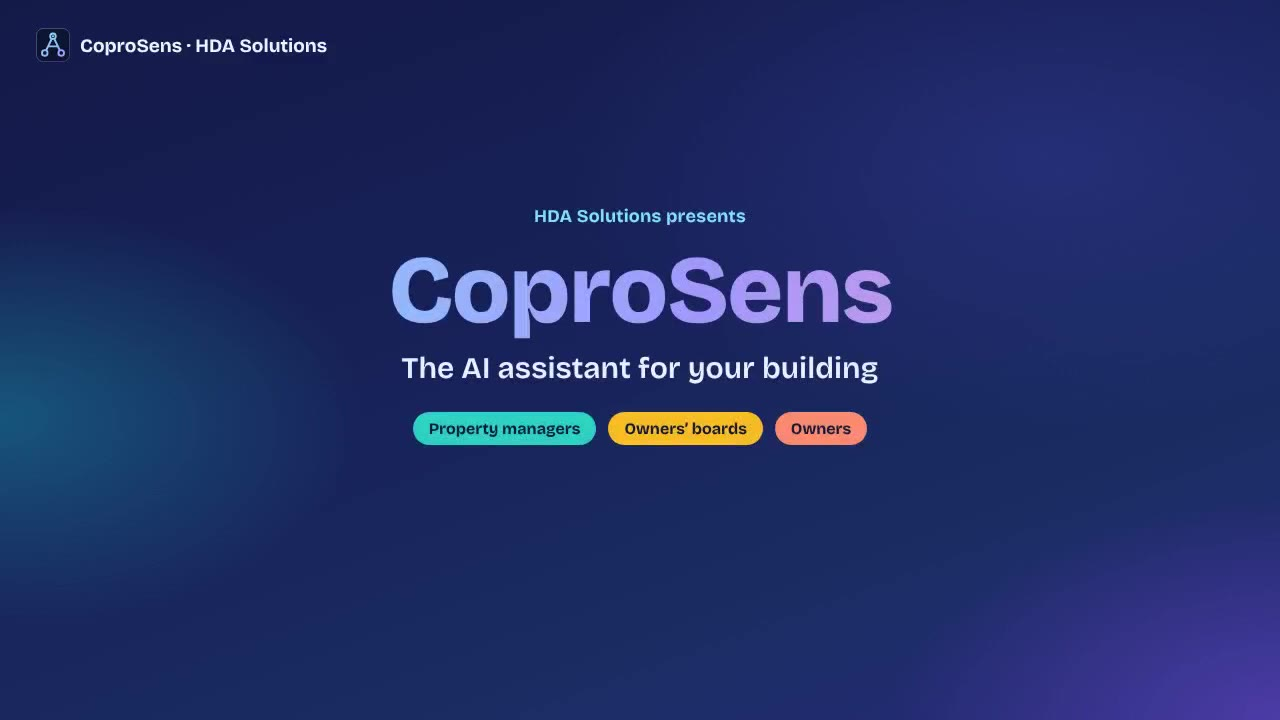
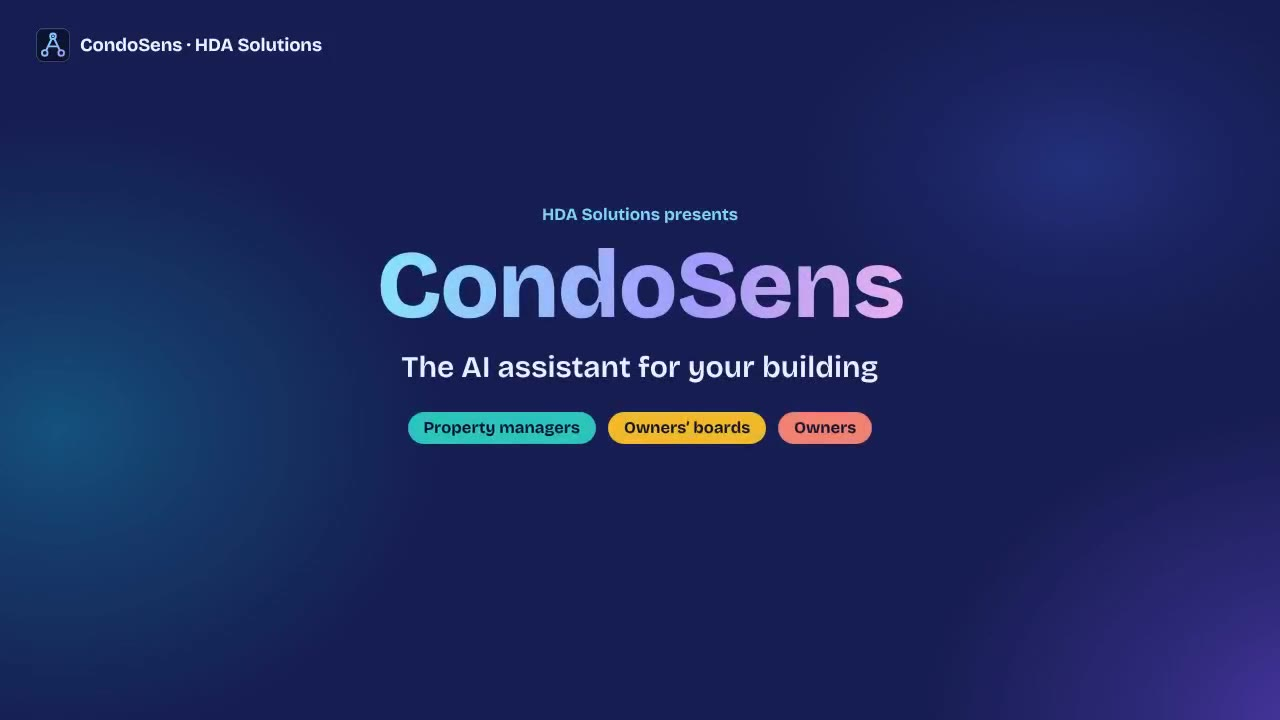
CondoSens video covers EN/ES/PT taken from the new videos; cache-busting ?v=2 on cover and video
Claude-Session: https://claude.ai/code/session_01GzJwK9V3zBxQEsvhtC21Rm

diff --git a/es/index.html b/es/index.html
@@ -12,7 +12,7 @@
 <p class="chat-a"><b>285.249,04 €</b> ya cobrados de 454.411,68 € emitidos; 152.433,04 € aún por vencer.</p>
 <p class="chat-src">Fuente: panel del consejo, 8 de octubre de 2026</p></div>
 <div class="scene-chip">Respuesta con fuente</div>
-</div></section><div class="ribbon"><span>Asistentes y agentes de IA</span><span>Microsoft 365 · Copilot Studio · Power Platform</span><span>Soluciones a medida, dondequiera que esté</span></div><section class="section" id="solutions"><div class="sectionhead"><div><div class="eyebrow">Lo que desarrollamos</div><h2>La IA al servicio<br>del trabajo real.</h2></div><p>Partimos de una necesidad concreta y de sus herramientas actuales para construir una solución adaptada a su organización.</p></div><div class="grid"><article class="card"><span class="icon ic-teal"><svg viewBox="0 0 24 24" aria-hidden="true"><path d="M4 5h16v10H9l-5 4z" fill="none" stroke="currentColor" stroke-width="2" stroke-linejoin="round"/><circle cx="9" cy="10" r="1.2" fill="currentColor"/><circle cx="12" cy="10" r="1.2" fill="currentColor"/><circle cx="15" cy="10" r="1.2" fill="currentColor"/></svg></span><span class="number">01 / ASISTIR</span><h3>Asistentes y copilotos</h3><p>Asistentes y agentes de IA, incluidos los agentes Frontier de Microsoft 365 Copilot, que encuentran información, preparan contenidos y realizan tareas para sus equipos.</p><span class="tags"><span class="tag">Copilot Studio</span><span class="tag">Agentes Frontier</span></span></article><article class="card"><span class="icon ic-amber"><svg viewBox="0 0 24 24" aria-hidden="true"><path d="M6 3h9l4 4v14H6z" fill="none" stroke="currentColor" stroke-width="2" stroke-linejoin="round"/><path d="M9 11h7M9 15h7M9 7h4" stroke="currentColor" stroke-width="2" stroke-linecap="round"/></svg></span><span class="number">02 / CONECTAR</span><h3>Conocimiento accesible</h3><p>Sus documentos conectados al asistente sin perder el control: cada persona solo ve lo que sus permisos de Microsoft 365 autorizan, con la protección y la gobernanza de datos de Microsoft Entra ID y Microsoft Purview.</p><span class="tags"><span class="tag">SharePoint</span><span class="tag">Microsoft Purview</span></span></article><article class="card"><span class="icon ic-coral"><svg viewBox="0 0 24 24" aria-hidden="true"><path d="M13 2 5 14h6l-1 8 8-12h-6z" fill="none" stroke="currentColor" stroke-width="2" stroke-linejoin="round"/></svg></span><span class="number">03 / AUTOMATIZAR</span><h3>Procesos simplificados</h3><p>Flujos de Power Automate que preparan respuestas, organizan solicitudes y encadenan los pasos repetitivos, con las validaciones humanas necesarias.</p><span class="tags"><span class="tag">Power Automate</span><span class="tag">Aplicaciones de negocio</span></span></article></div><div class="platform"><div class="platform-head"><h3>Todo el ecosistema Microsoft, para añadir según sus necesidades</h3><p>Estos servicios pueden completar su solución, según sus licencias de Microsoft 365. Le aconsejamos el plan adecuado y podemos suministrárselo.</p></div><div class="platform-grid"><div class="pf"><h4>Trabajo diario</h4><p>Outlook (correo, agenda), Teams, OneNote, Word, Excel y PowerPoint</p></div><div class="pf"><h4>Intranets y extranets</h4><p>SharePoint: portales internos y espacios compartidos con sus clientes y socios</p></div><div class="pf"><h4>Identidad y seguridad</h4><p>Microsoft Entra ID (cuentas, inicio de sesión multifactor, reglas de acceso), Microsoft Defender (antivirus, protección del correo y de los dispositivos), Microsoft Purview</p></div><div class="pf"><h4>IA y nube</h4><p>Azure AI Foundry, Copilot Studio (agentes disponibles en Teams y en su sitio web), agentes Frontier y Power Automate</p></div></div></div></section></div><section class="dark section" id="applications"><div class="wrap"><div class="eyebrow">Caso concreto</div><h2>Un asistente diseñado<br>para un oficio real.</h2><p>Nuestro primer asistente, desarrollado para la gestión de comunidades de propietarios. El mismo enfoque se adapta a otros oficios.</p><div class="cases single"><article class="case"><span class="eyebrow">Inmobiliaria y comunidades de propietarios</span><h3>CondoSens<br>– el asistente documental de su comunidad de propietarios</h3><p>Nuestro asistente de IA para la gestión de comunidades: documentos, derramas y cuotas, y juntas generales.</p><ul><li>Encontrar información en los documentos de la comunidad, con su fuente.</li><li>Calcular la cuota de cada vivienda: coeficientes, gastos especiales y consumos individuales de agua y calefacción.</li><li>Preparar el orden del día, la convocatoria, el formulario de voto por correo y el acta de la junta, validados por el administrador antes del envío.</li></ul><figure style="margin:28px 0 0"><video controls playsinline preload="none" poster="/media/coprosens-poster-es.jpg" style="display:block;width:100%;aspect-ratio:16/9;background:#0e2220;border-radius:8px" aria-label="Presentación de CondoSens"><source src="/media/coprosens-presentation-es.mp4" type="video/mp4">Su navegador no puede reproducir este vídeo. <a href="/media/coprosens-presentation-es.mp4">Descargar la presentación</a>.</video><figcaption style="font-size:13px;color:#ccd8cc;margin-top:10px">CondoSens en 1 min 35 s</figcaption></figure><div class="actions-grid"><a class="act act-dash" href="https://demo.hdaprodz.com/?lang=es" target="_blank" rel="noopener"><span class="act-ic"><svg viewBox="0 0 24 24" aria-hidden="true"><path d="M4 20V10M10 20V4M16 20v-7M22 20H2" fill="none" stroke="currentColor" stroke-width="2" stroke-linecap="round"/></svg></span><strong>Panel ↗</strong><small>El seguimiento del consejo</small></a></div><p class="actions-note">Comunidad ficticia, datos de demostración · respuestas generadas por IA</p></article></div><div class="audience"><h3 class="audience-title">Para cada actor de la comunidad</h3><div class="audience-grid">
+</div></section><div class="ribbon"><span>Asistentes y agentes de IA</span><span>Microsoft 365 · Copilot Studio · Power Platform</span><span>Soluciones a medida, dondequiera que esté</span></div><section class="section" id="solutions"><div class="sectionhead"><div><div class="eyebrow">Lo que desarrollamos</div><h2>La IA al servicio<br>del trabajo real.</h2></div><p>Partimos de una necesidad concreta y de sus herramientas actuales para construir una solución adaptada a su organización.</p></div><div class="grid"><article class="card"><span class="icon ic-teal"><svg viewBox="0 0 24 24" aria-hidden="true"><path d="M4 5h16v10H9l-5 4z" fill="none" stroke="currentColor" stroke-width="2" stroke-linejoin="round"/><circle cx="9" cy="10" r="1.2" fill="currentColor"/><circle cx="12" cy="10" r="1.2" fill="currentColor"/><circle cx="15" cy="10" r="1.2" fill="currentColor"/></svg></span><span class="number">01 / ASISTIR</span><h3>Asistentes y copilotos</h3><p>Asistentes y agentes de IA, incluidos los agentes Frontier de Microsoft 365 Copilot, que encuentran información, preparan contenidos y realizan tareas para sus equipos.</p><span class="tags"><span class="tag">Copilot Studio</span><span class="tag">Agentes Frontier</span></span></article><article class="card"><span class="icon ic-amber"><svg viewBox="0 0 24 24" aria-hidden="true"><path d="M6 3h9l4 4v14H6z" fill="none" stroke="currentColor" stroke-width="2" stroke-linejoin="round"/><path d="M9 11h7M9 15h7M9 7h4" stroke="currentColor" stroke-width="2" stroke-linecap="round"/></svg></span><span class="number">02 / CONECTAR</span><h3>Conocimiento accesible</h3><p>Sus documentos conectados al asistente sin perder el control: cada persona solo ve lo que sus permisos de Microsoft 365 autorizan, con la protección y la gobernanza de datos de Microsoft Entra ID y Microsoft Purview.</p><span class="tags"><span class="tag">SharePoint</span><span class="tag">Microsoft Purview</span></span></article><article class="card"><span class="icon ic-coral"><svg viewBox="0 0 24 24" aria-hidden="true"><path d="M13 2 5 14h6l-1 8 8-12h-6z" fill="none" stroke="currentColor" stroke-width="2" stroke-linejoin="round"/></svg></span><span class="number">03 / AUTOMATIZAR</span><h3>Procesos simplificados</h3><p>Flujos de Power Automate que preparan respuestas, organizan solicitudes y encadenan los pasos repetitivos, con las validaciones humanas necesarias.</p><span class="tags"><span class="tag">Power Automate</span><span class="tag">Aplicaciones de negocio</span></span></article></div><div class="platform"><div class="platform-head"><h3>Todo el ecosistema Microsoft, para añadir según sus necesidades</h3><p>Estos servicios pueden completar su solución, según sus licencias de Microsoft 365. Le aconsejamos el plan adecuado y podemos suministrárselo.</p></div><div class="platform-grid"><div class="pf"><h4>Trabajo diario</h4><p>Outlook (correo, agenda), Teams, OneNote, Word, Excel y PowerPoint</p></div><div class="pf"><h4>Intranets y extranets</h4><p>SharePoint: portales internos y espacios compartidos con sus clientes y socios</p></div><div class="pf"><h4>Identidad y seguridad</h4><p>Microsoft Entra ID (cuentas, inicio de sesión multifactor, reglas de acceso), Microsoft Defender (antivirus, protección del correo y de los dispositivos), Microsoft Purview</p></div><div class="pf"><h4>IA y nube</h4><p>Azure AI Foundry, Copilot Studio (agentes disponibles en Teams y en su sitio web), agentes Frontier y Power Automate</p></div></div></div></section></div><section class="dark section" id="applications"><div class="wrap"><div class="eyebrow">Caso concreto</div><h2>Un asistente diseñado<br>para un oficio real.</h2><p>Nuestro primer asistente, desarrollado para la gestión de comunidades de propietarios. El mismo enfoque se adapta a otros oficios.</p><div class="cases single"><article class="case"><span class="eyebrow">Inmobiliaria y comunidades de propietarios</span><h3>CondoSens<br>– el asistente documental de su comunidad de propietarios</h3><p>Nuestro asistente de IA para la gestión de comunidades: documentos, derramas y cuotas, y juntas generales.</p><ul><li>Encontrar información en los documentos de la comunidad, con su fuente.</li><li>Calcular la cuota de cada vivienda: coeficientes, gastos especiales y consumos individuales de agua y calefacción.</li><li>Preparar el orden del día, la convocatoria, el formulario de voto por correo y el acta de la junta, validados por el administrador antes del envío.</li></ul><figure style="margin:28px 0 0"><video controls playsinline preload="none" poster="/media/coprosens-poster-es.jpg?v=2" style="display:block;width:100%;aspect-ratio:16/9;background:#0e2220;border-radius:8px" aria-label="Presentación de CondoSens"><source src="/media/coprosens-presentation-es.mp4?v=2" type="video/mp4">Su navegador no puede reproducir este vídeo. <a href="/media/coprosens-presentation-es.mp4?v=2">Descargar la presentación</a>.</video><figcaption style="font-size:13px;color:#ccd8cc;margin-top:10px">CondoSens en 1 min 35 s</figcaption></figure><div class="actions-grid"><a class="act act-dash" href="https://demo.hdaprodz.com/?lang=es" target="_blank" rel="noopener"><span class="act-ic"><svg viewBox="0 0 24 24" aria-hidden="true"><path d="M4 20V10M10 20V4M16 20v-7M22 20H2" fill="none" stroke="currentColor" stroke-width="2" stroke-linecap="round"/></svg></span><strong>Panel ↗</strong><small>El seguimiento del consejo</small></a></div><p class="actions-note">Comunidad ficticia, datos de demostración · respuestas generadas por IA</p></article></div><div class="audience"><h3 class="audience-title">Para cada actor de la comunidad</h3><div class="audience-grid">
 <a class="aud aud-teal aud-link" href="/es/coprosens/#syndics"><h4>Administradores de fincas</h4><p>Seguir los impagos y los recordatorios, los contratos de mantenimiento y los presupuestos; preparar las cuotas y los documentos de junta.</p><span class="aud-cta">Ver cómo les ayuda CondoSens<i aria-hidden="true">→</i></span></a>
 <a class="aud aud-amber aud-link" href="/es/coprosens/#conseil"><h4>Juntas de propietarios</h4><p>Seguir el avance de las obras aprobadas, comprobar la ejecución de los acuerdos de junta, encontrar un acuerdo y comparar presupuestos.</p><span class="aud-cta">Ver cómo les ayuda CondoSens<i aria-hidden="true">→</i></span></a>
 <a class="aud aud-coral aud-link" href="/es/coprosens/#coproprietaires"><h4>Propietarios</h4><p>Comprobar sus cuotas, los vencimientos y el detalle de sus gastos; conocer la fecha de la próxima junta y los acuerdos aprobados.</p><span class="aud-cta">Ver cómo les ayuda CondoSens<i aria-hidden="true">→</i></span></a>

diff --git a/pt/index.html b/pt/index.html
@@ -12,7 +12,7 @@
 <p class="chat-a"><b>R$ 1.783.462,57</b> já recebidos de R$ 2.841.118,15 chamados; R$ 953.057,10 ainda a vencer.</p>
 <p class="chat-src">Fonte: painel do conselho, 8 de outubro de 2026</p></div>
 <div class="scene-chip">Resposta com fonte</div>
-</div></section><div class="ribbon"><span>Assistentes e agentes de IA</span><span>Microsoft 365 · Copilot Studio · Power Platform</span><span>Soluções sob medida, onde quer que esteja</span></div><section class="section" id="solutions"><div class="sectionhead"><div><div class="eyebrow">O que desenvolvemos</div><h2>A IA a serviço<br>do trabalho real.</h2></div><p>Partimos de uma necessidade concreta e das suas ferramentas atuais para construir uma solução adaptada à sua organização.</p></div><div class="grid"><article class="card"><span class="icon ic-teal"><svg viewBox="0 0 24 24" aria-hidden="true"><path d="M4 5h16v10H9l-5 4z" fill="none" stroke="currentColor" stroke-width="2" stroke-linejoin="round"/><circle cx="9" cy="10" r="1.2" fill="currentColor"/><circle cx="12" cy="10" r="1.2" fill="currentColor"/><circle cx="15" cy="10" r="1.2" fill="currentColor"/></svg></span><span class="number">01 / ASSISTIR</span><h3>Assistentes e copilotos</h3><p>Assistentes e agentes de IA, incluindo os agentes Frontier do Microsoft 365 Copilot, que encontram informações, preparam conteúdos e executam tarefas para suas equipes.</p><span class="tags"><span class="tag">Copilot Studio</span><span class="tag">Agentes Frontier</span></span></article><article class="card"><span class="icon ic-amber"><svg viewBox="0 0 24 24" aria-hidden="true"><path d="M6 3h9l4 4v14H6z" fill="none" stroke="currentColor" stroke-width="2" stroke-linejoin="round"/><path d="M9 11h7M9 15h7M9 7h4" stroke="currentColor" stroke-width="2" stroke-linecap="round"/></svg></span><span class="number">02 / CONECTAR</span><h3>Conhecimento acessível</h3><p>Seus documentos ligados ao assistente sem perder o controle: cada um vê apenas o que seus acessos no Microsoft 365 permitem, com a proteção e a governança de dados do Microsoft Entra ID e do Microsoft Purview.</p><span class="tags"><span class="tag">SharePoint</span><span class="tag">Microsoft Purview</span></span></article><article class="card"><span class="icon ic-coral"><svg viewBox="0 0 24 24" aria-hidden="true"><path d="M13 2 5 14h6l-1 8 8-12h-6z" fill="none" stroke="currentColor" stroke-width="2" stroke-linejoin="round"/></svg></span><span class="number">03 / AUTOMATIZAR</span><h3>Processos simplificados</h3><p>Fluxos do Power Automate que preparam respostas, organizam solicitações e encadeiam as etapas repetitivas, com as validações humanas necessárias.</p><span class="tags"><span class="tag">Power Automate</span><span class="tag">Aplicativos de negócio</span></span></article></div><div class="platform"><div class="platform-head"><h3>Todo o ecossistema Microsoft, para adicionar conforme sua necessidade</h3><p>Esses serviços podem complementar sua solução, conforme suas licenças do Microsoft 365. Indicamos o plano adequado e podemos fornecê-lo.</p></div><div class="platform-grid"><div class="pf"><h4>Trabalho do dia a dia</h4><p>Outlook (e-mail, agenda), Teams, OneNote, Word, Excel e PowerPoint</p></div><div class="pf"><h4>Intranets e extranets</h4><p>SharePoint: portais internos e espaços compartilhados com seus clientes e parceiros</p></div><div class="pf"><h4>Identidade e segurança</h4><p>Microsoft Entra ID (contas, login multifator, regras de acesso), Microsoft Defender (antivírus, proteção de e-mails e dispositivos), Microsoft Purview</p></div><div class="pf"><h4>IA e nuvem</h4><p>Azure AI Foundry, Copilot Studio (agentes disponíveis no Teams e no seu site), agentes Frontier e Power Automate</p></div></div></div></section></div><section class="dark section" id="applications"><div class="wrap"><div class="eyebrow">Caso concreto</div><h2>Um assistente criado<br>para uma profissão real.</h2><p>Nosso primeiro assistente, desenvolvido para a gestão de condomínios. A mesma abordagem se adapta a outras profissões.</p><div class="cases single"><article class="case"><span class="eyebrow">Imóveis e condomínios</span><h3>CondoSens<br>– o assistente de documentos do seu condomínio</h3><p>Nosso assistente de IA para a gestão de condomínios: documentos, chamadas de cotas e assembleias gerais.</p><ul><li>Encontrar uma informação nos documentos do condomínio, com a fonte.</li><li>Calcular a chamada de cotas de cada unidade: frações ideais, encargos especiais e consumos individuais de água e aquecimento.</li><li>Preparar a ordem do dia, a convocação, o formulário de voto por correspondência e a ata da assembleia, validados pela administradora antes do envio.</li></ul><figure style="margin:28px 0 0"><video controls playsinline preload="none" poster="/media/coprosens-poster-pt.jpg" style="display:block;width:100%;aspect-ratio:16/9;background:#0e2220;border-radius:8px" aria-label="Apresentação do CondoSens"><source src="/media/coprosens-presentation-pt.mp4" type="video/mp4">Seu navegador não consegue reproduzir este vídeo. <a href="/media/coprosens-presentation-pt.mp4">Baixar a apresentação</a>.</video><figcaption style="font-size:13px;color:#ccd8cc;margin-top:10px">CondoSens em 1 min 37 s</figcaption></figure><div class="actions-grid"><a class="act act-dash" href="https://demo.hdaprodz.com/?lang=pt" target="_blank" rel="noopener"><span class="act-ic"><svg viewBox="0 0 24 24" aria-hidden="true"><path d="M4 20V10M10 20V4M16 20v-7M22 20H2" fill="none" stroke="currentColor" stroke-width="2" stroke-linecap="round"/></svg></span><strong>Painel ↗</strong><small>O acompanhamento do conselho</small></a></div><p class="actions-note">Condomínio fictício, dados de demonstração · respostas geradas por IA</p></article></div><div class="audience"><h3 class="audience-title">Para cada ator do condomínio</h3><div class="audience-grid">
+</div></section><div class="ribbon"><span>Assistentes e agentes de IA</span><span>Microsoft 365 · Copilot Studio · Power Platform</span><span>Soluções sob medida, onde quer que esteja</span></div><section class="section" id="solutions"><div class="sectionhead"><div><div class="eyebrow">O que desenvolvemos</div><h2>A IA a serviço<br>do trabalho real.</h2></div><p>Partimos de uma necessidade concreta e das suas ferramentas atuais para construir uma solução adaptada à sua organização.</p></div><div class="grid"><article class="card"><span class="icon ic-teal"><svg viewBox="0 0 24 24" aria-hidden="true"><path d="M4 5h16v10H9l-5 4z" fill="none" stroke="currentColor" stroke-width="2" stroke-linejoin="round"/><circle cx="9" cy="10" r="1.2" fill="currentColor"/><circle cx="12" cy="10" r="1.2" fill="currentColor"/><circle cx="15" cy="10" r="1.2" fill="currentColor"/></svg></span><span class="number">01 / ASSISTIR</span><h3>Assistentes e copilotos</h3><p>Assistentes e agentes de IA, incluindo os agentes Frontier do Microsoft 365 Copilot, que encontram informações, preparam conteúdos e executam tarefas para suas equipes.</p><span class="tags"><span class="tag">Copilot Studio</span><span class="tag">Agentes Frontier</span></span></article><article class="card"><span class="icon ic-amber"><svg viewBox="0 0 24 24" aria-hidden="true"><path d="M6 3h9l4 4v14H6z" fill="none" stroke="currentColor" stroke-width="2" stroke-linejoin="round"/><path d="M9 11h7M9 15h7M9 7h4" stroke="currentColor" stroke-width="2" stroke-linecap="round"/></svg></span><span class="number">02 / CONECTAR</span><h3>Conhecimento acessível</h3><p>Seus documentos ligados ao assistente sem perder o controle: cada um vê apenas o que seus acessos no Microsoft 365 permitem, com a proteção e a governança de dados do Microsoft Entra ID e do Microsoft Purview.</p><span class="tags"><span class="tag">SharePoint</span><span class="tag">Microsoft Purview</span></span></article><article class="card"><span class="icon ic-coral"><svg viewBox="0 0 24 24" aria-hidden="true"><path d="M13 2 5 14h6l-1 8 8-12h-6z" fill="none" stroke="currentColor" stroke-width="2" stroke-linejoin="round"/></svg></span><span class="number">03 / AUTOMATIZAR</span><h3>Processos simplificados</h3><p>Fluxos do Power Automate que preparam respostas, organizam solicitações e encadeiam as etapas repetitivas, com as validações humanas necessárias.</p><span class="tags"><span class="tag">Power Automate</span><span class="tag">Aplicativos de negócio</span></span></article></div><div class="platform"><div class="platform-head"><h3>Todo o ecossistema Microsoft, para adicionar conforme sua necessidade</h3><p>Esses serviços podem complementar sua solução, conforme suas licenças do Microsoft 365. Indicamos o plano adequado e podemos fornecê-lo.</p></div><div class="platform-grid"><div class="pf"><h4>Trabalho do dia a dia</h4><p>Outlook (e-mail, agenda), Teams, OneNote, Word, Excel e PowerPoint</p></div><div class="pf"><h4>Intranets e extranets</h4><p>SharePoint: portais internos e espaços compartilhados com seus clientes e parceiros</p></div><div class="pf"><h4>Identidade e segurança</h4><p>Microsoft Entra ID (contas, login multifator, regras de acesso), Microsoft Defender (antivírus, proteção de e-mails e dispositivos), Microsoft Purview</p></div><div class="pf"><h4>IA e nuvem</h4><p>Azure AI Foundry, Copilot Studio (agentes disponíveis no Teams e no seu site), agentes Frontier e Power Automate</p></div></div></div></section></div><section class="dark section" id="applications"><div class="wrap"><div class="eyebrow">Caso concreto</div><h2>Um assistente criado<br>para uma profissão real.</h2><p>Nosso primeiro assistente, desenvolvido para a gestão de condomínios. A mesma abordagem se adapta a outras profissões.</p><div class="cases single"><article class="case"><span class="eyebrow">Imóveis e condomínios</span><h3>CondoSens<br>– o assistente de documentos do seu condomínio</h3><p>Nosso assistente de IA para a gestão de condomínios: documentos, chamadas de cotas e assembleias gerais.</p><ul><li>Encontrar uma informação nos documentos do condomínio, com a fonte.</li><li>Calcular a chamada de cotas de cada unidade: frações ideais, encargos especiais e consumos individuais de água e aquecimento.</li><li>Preparar a ordem do dia, a convocação, o formulário de voto por correspondência e a ata da assembleia, validados pela administradora antes do envio.</li></ul><figure style="margin:28px 0 0"><video controls playsinline preload="none" poster="/media/coprosens-poster-pt.jpg?v=2" style="display:block;width:100%;aspect-ratio:16/9;background:#0e2220;border-radius:8px" aria-label="Apresentação do CondoSens"><source src="/media/coprosens-presentation-pt.mp4?v=2" type="video/mp4">Seu navegador não consegue reproduzir este vídeo. <a href="/media/coprosens-presentation-pt.mp4?v=2">Baixar a apresentação</a>.</video><figcaption style="font-size:13px;color:#ccd8cc;margin-top:10px">CondoSens em 1 min 37 s</figcaption></figure><div class="actions-grid"><a class="act act-dash" href="https://demo.hdaprodz.com/?lang=pt" target="_blank" rel="noopener"><span class="act-ic"><svg viewBox="0 0 24 24" aria-hidden="true"><path d="M4 20V10M10 20V4M16 20v-7M22 20H2" fill="none" stroke="currentColor" stroke-width="2" stroke-linecap="round"/></svg></span><strong>Painel ↗</strong><small>O acompanhamento do conselho</small></a></div><p class="actions-note">Condomínio fictício, dados de demonstração · respostas geradas por IA</p></article></div><div class="audience"><h3 class="audience-title">Para cada ator do condomínio</h3><div class="audience-grid">
 <a class="aud aud-teal aud-link" href="/pt/coprosens/#syndics"><h4>Administradoras</h4><p>Acompanhar a inadimplência e as cobranças, os contratos de manutenção e os orçamentos; preparar as chamadas de cotas e os documentos de assembleia.</p><span class="aud-cta">Ver como o CondoSens ajuda<i aria-hidden="true">→</i></span></a>
 <a class="aud aud-amber aud-link" href="/pt/coprosens/#conseil"><h4>Conselhos do condomínio</h4><p>Acompanhar o andamento das obras aprovadas, verificar a execução das decisões de assembleia, encontrar uma resolução e comparar orçamentos.</p><span class="aud-cta">Ver como o CondoSens ajuda<i aria-hidden="true">→</i></span></a>
 <a class="aud aud-coral aud-link" href="/pt/coprosens/#coproprietaires"><h4>Condôminos</h4><p>Conferir suas cotas, os vencimentos e o detalhe das despesas; saber a data da próxima assembleia e as resoluções aprovadas.</p><span class="aud-cta">Ver como o CondoSens ajuda<i aria-hidden="true">→</i></span></a>

diff --git a/en/index.html b/en/index.html
@@ -12,7 +12,7 @@
 <p class="chat-a"><b>$285,249.04</b> already collected of $454,411.68 called; $152,433.04 not yet due.</p>
 <p class="chat-src">Source: board dashboard, 8 October 2026</p></div>
 <div class="scene-chip">Sourced answer</div>
-</div></section><div class="ribbon"><span>AI assistants & agents</span><span>Microsoft 365 · Copilot Studio · Power Platform</span><span>Tailor-made solutions, wherever you are</span></div><section class="section" id="solutions"><div class="sectionhead"><div><div class="eyebrow">What we build</div><h2>AI at the service<br>of real work.</h2></div><p>We start from a concrete need and your existing tools to build a solution suited to your organisation.</p></div><div class="grid"><article class="card"><span class="icon ic-teal"><svg viewBox="0 0 24 24" aria-hidden="true"><path d="M4 5h16v10H9l-5 4z" fill="none" stroke="currentColor" stroke-width="2" stroke-linejoin="round"/><circle cx="9" cy="10" r="1.2" fill="currentColor"/><circle cx="12" cy="10" r="1.2" fill="currentColor"/><circle cx="15" cy="10" r="1.2" fill="currentColor"/></svg></span><span class="number">01 / ASSIST</span><h3>Assistants and copilots</h3><p>Assistants and AI agents, including Microsoft 365 Copilot’s Frontier agents, that find information, prepare content and carry out tasks for your teams.</p><span class="tags"><span class="tag">Copilot Studio</span><span class="tag">Frontier agents</span></span></article><article class="card"><span class="icon ic-amber"><svg viewBox="0 0 24 24" aria-hidden="true"><path d="M6 3h9l4 4v14H6z" fill="none" stroke="currentColor" stroke-width="2" stroke-linejoin="round"/><path d="M9 11h7M9 15h7M9 7h4" stroke="currentColor" stroke-width="2" stroke-linecap="round"/></svg></span><span class="number">02 / CONNECT</span><h3>Accessible knowledge</h3><p>Your documents connected to the assistant without losing control: each person sees only what their Microsoft 365 rights allow, with data protection and governance from Microsoft Entra ID and Microsoft Purview.</p><span class="tags"><span class="tag">SharePoint</span><span class="tag">Microsoft Purview</span></span></article><article class="card"><span class="icon ic-coral"><svg viewBox="0 0 24 24" aria-hidden="true"><path d="M13 2 5 14h6l-1 8 8-12h-6z" fill="none" stroke="currentColor" stroke-width="2" stroke-linejoin="round"/></svg></span><span class="number">03 / AUTOMATE</span><h3>Simpler processes</h3><p>Power Automate flows that prepare answers, organise requests and chain repetitive steps, with the human approvals each use needs.</p><span class="tags"><span class="tag">Power Automate</span><span class="tag">Business apps</span></span></article></div><div class="platform"><div class="platform-head"><h3>The whole Microsoft ecosystem, added as you need it</h3><p>These services can be added to your solution, depending on your Microsoft 365 licences. We advise you on the right plan and can supply it.</p></div><div class="platform-grid"><div class="pf"><h4>Everyday work</h4><p>Outlook (e-mail, calendar), Teams, OneNote, Word, Excel and PowerPoint</p></div><div class="pf"><h4>Intranets and extranets</h4><p>SharePoint: internal portals and spaces shared with your clients and partners</p></div><div class="pf"><h4>Identity and security</h4><p>Microsoft Entra ID (accounts, multi-factor sign-in, access rules), Microsoft Defender (antivirus, e-mail and device protection), Microsoft Purview</p></div><div class="pf"><h4>AI and cloud</h4><p>Azure AI Foundry, Copilot Studio (agents available in Teams and on your website), Frontier agents and Power Automate</p></div></div></div></section></div><section class="dark section" id="applications"><div class="wrap"><div class="eyebrow">Case study</div><h2>An assistant built<br>for a real profession.</h2><p>Our first assistant, developed for condominium management. The same approach adapts to other professions.</p><div class="cases single"><article class="case"><span class="eyebrow">Real estate & co-ownership</span><h3>CondoSens<br>– the document assistant for your condominium</h3><p>Our AI assistant for co-ownership management: documents, service-charge calls and general meetings.</p><ul><li>Find information in the building’s documents, with its source.</li><li>Calculate each unit’s service-charge call: ownership shares, special charges and individual water and heating consumption.</li><li>Draft the agenda, the notice of meeting, the postal-vote form and the general-meeting minutes, approved by the property manager before sending.</li></ul><figure style="margin:28px 0 0"><video controls playsinline preload="none" poster="/media/coprosens-poster-en.jpg" style="display:block;width:100%;aspect-ratio:16/9;background:#0e2220;border-radius:8px" aria-label="CondoSens presentation"><source src="/media/coprosens-presentation-en.mp4" type="video/mp4">Your browser can’t play this video. <a href="/media/coprosens-presentation-en.mp4">Download the presentation</a>.</video><figcaption style="font-size:13px;color:#ccd8cc;margin-top:10px">CondoSens in 1 min 26 s</figcaption></figure><div class="actions-grid"><a class="act act-dash" href="https://demo.hdaprodz.com/?lang=en" target="_blank" rel="noopener"><span class="act-ic"><svg viewBox="0 0 24 24" aria-hidden="true"><path d="M4 20V10M10 20V4M16 20v-7M22 20H2" fill="none" stroke="currentColor" stroke-width="2" stroke-linecap="round"/></svg></span><strong>Dashboard ↗</strong><small>The owners’ council overview</small></a></div><p class="actions-note">Fictional condominium, demo data · AI-generated answers</p></article></div><div class="audience"><h3 class="audience-title">For everyone in the building</h3><div class="audience-grid">
+</div></section><div class="ribbon"><span>AI assistants & agents</span><span>Microsoft 365 · Copilot Studio · Power Platform</span><span>Tailor-made solutions, wherever you are</span></div><section class="section" id="solutions"><div class="sectionhead"><div><div class="eyebrow">What we build</div><h2>AI at the service<br>of real work.</h2></div><p>We start from a concrete need and your existing tools to build a solution suited to your organisation.</p></div><div class="grid"><article class="card"><span class="icon ic-teal"><svg viewBox="0 0 24 24" aria-hidden="true"><path d="M4 5h16v10H9l-5 4z" fill="none" stroke="currentColor" stroke-width="2" stroke-linejoin="round"/><circle cx="9" cy="10" r="1.2" fill="currentColor"/><circle cx="12" cy="10" r="1.2" fill="currentColor"/><circle cx="15" cy="10" r="1.2" fill="currentColor"/></svg></span><span class="number">01 / ASSIST</span><h3>Assistants and copilots</h3><p>Assistants and AI agents, including Microsoft 365 Copilot’s Frontier agents, that find information, prepare content and carry out tasks for your teams.</p><span class="tags"><span class="tag">Copilot Studio</span><span class="tag">Frontier agents</span></span></article><article class="card"><span class="icon ic-amber"><svg viewBox="0 0 24 24" aria-hidden="true"><path d="M6 3h9l4 4v14H6z" fill="none" stroke="currentColor" stroke-width="2" stroke-linejoin="round"/><path d="M9 11h7M9 15h7M9 7h4" stroke="currentColor" stroke-width="2" stroke-linecap="round"/></svg></span><span class="number">02 / CONNECT</span><h3>Accessible knowledge</h3><p>Your documents connected to the assistant without losing control: each person sees only what their Microsoft 365 rights allow, with data protection and governance from Microsoft Entra ID and Microsoft Purview.</p><span class="tags"><span class="tag">SharePoint</span><span class="tag">Microsoft Purview</span></span></article><article class="card"><span class="icon ic-coral"><svg viewBox="0 0 24 24" aria-hidden="true"><path d="M13 2 5 14h6l-1 8 8-12h-6z" fill="none" stroke="currentColor" stroke-width="2" stroke-linejoin="round"/></svg></span><span class="number">03 / AUTOMATE</span><h3>Simpler processes</h3><p>Power Automate flows that prepare answers, organise requests and chain repetitive steps, with the human approvals each use needs.</p><span class="tags"><span class="tag">Power Automate</span><span class="tag">Business apps</span></span></article></div><div class="platform"><div class="platform-head"><h3>The whole Microsoft ecosystem, added as you need it</h3><p>These services can be added to your solution, depending on your Microsoft 365 licences. We advise you on the right plan and can supply it.</p></div><div class="platform-grid"><div class="pf"><h4>Everyday work</h4><p>Outlook (e-mail, calendar), Teams, OneNote, Word, Excel and PowerPoint</p></div><div class="pf"><h4>Intranets and extranets</h4><p>SharePoint: internal portals and spaces shared with your clients and partners</p></div><div class="pf"><h4>Identity and security</h4><p>Microsoft Entra ID (accounts, multi-factor sign-in, access rules), Microsoft Defender (antivirus, e-mail and device protection), Microsoft Purview</p></div><div class="pf"><h4>AI and cloud</h4><p>Azure AI Foundry, Copilot Studio (agents available in Teams and on your website), Frontier agents and Power Automate</p></div></div></div></section></div><section class="dark section" id="applications"><div class="wrap"><div class="eyebrow">Case study</div><h2>An assistant built<br>for a real profession.</h2><p>Our first assistant, developed for condominium management. The same approach adapts to other professions.</p><div class="cases single"><article class="case"><span class="eyebrow">Real estate & co-ownership</span><h3>CondoSens<br>– the document assistant for your condominium</h3><p>Our AI assistant for co-ownership management: documents, service-charge calls and general meetings.</p><ul><li>Find information in the building’s documents, with its source.</li><li>Calculate each unit’s service-charge call: ownership shares, special charges and individual water and heating consumption.</li><li>Draft the agenda, the notice of meeting, the postal-vote form and the general-meeting minutes, approved by the property manager before sending.</li></ul><figure style="margin:28px 0 0"><video controls playsinline preload="none" poster="/media/coprosens-poster-en.jpg?v=2" style="display:block;width:100%;aspect-ratio:16/9;background:#0e2220;border-radius:8px" aria-label="CondoSens presentation"><source src="/media/coprosens-presentation-en.mp4?v=2" type="video/mp4">Your browser can’t play this video. <a href="/media/coprosens-presentation-en.mp4?v=2">Download the presentation</a>.</video><figcaption style="font-size:13px;color:#ccd8cc;margin-top:10px">CondoSens in 1 min 26 s</figcaption></figure><div class="actions-grid"><a class="act act-dash" href="https://demo.hdaprodz.com/?lang=en" target="_blank" rel="noopener"><span class="act-ic"><svg viewBox="0 0 24 24" aria-hidden="true"><path d="M4 20V10M10 20V4M16 20v-7M22 20H2" fill="none" stroke="currentColor" stroke-width="2" stroke-linecap="round"/></svg></span><strong>Dashboard ↗</strong><small>The owners’ council overview</small></a></div><p class="actions-note">Fictional condominium, demo data · AI-generated answers</p></article></div><div class="audience"><h3 class="audience-title">For everyone in the building</h3><div class="audience-grid">
 <a class="aud aud-teal aud-link" href="/en/coprosens/#syndics"><h4>Property managers</h4><p>Track unpaid charges and reminders, maintenance contracts and quotes; prepare service-charge calls and general-meeting documents.</p><span class="aud-cta">See how CondoSens helps them<i aria-hidden="true">→</i></span></a>
 <a class="aud aud-amber aud-link" href="/en/coprosens/#conseil"><h4>Owners’ boards</h4><p>Follow the progress of approved works, check that meeting decisions are carried out, find a resolution and compare quotes.</p><span class="aud-cta">See how CondoSens helps them<i aria-hidden="true">→</i></span></a>
 <a class="aud aud-coral aud-link" href="/en/coprosens/#coproprietaires"><h4>Owners</h4><p>Check their service-charge calls, due dates and charge breakdown; know the date of the next general meeting and the resolutions passed.</p><span class="aud-cta">See how CondoSens helps them<i aria-hidden="true">→</i></span></a>
